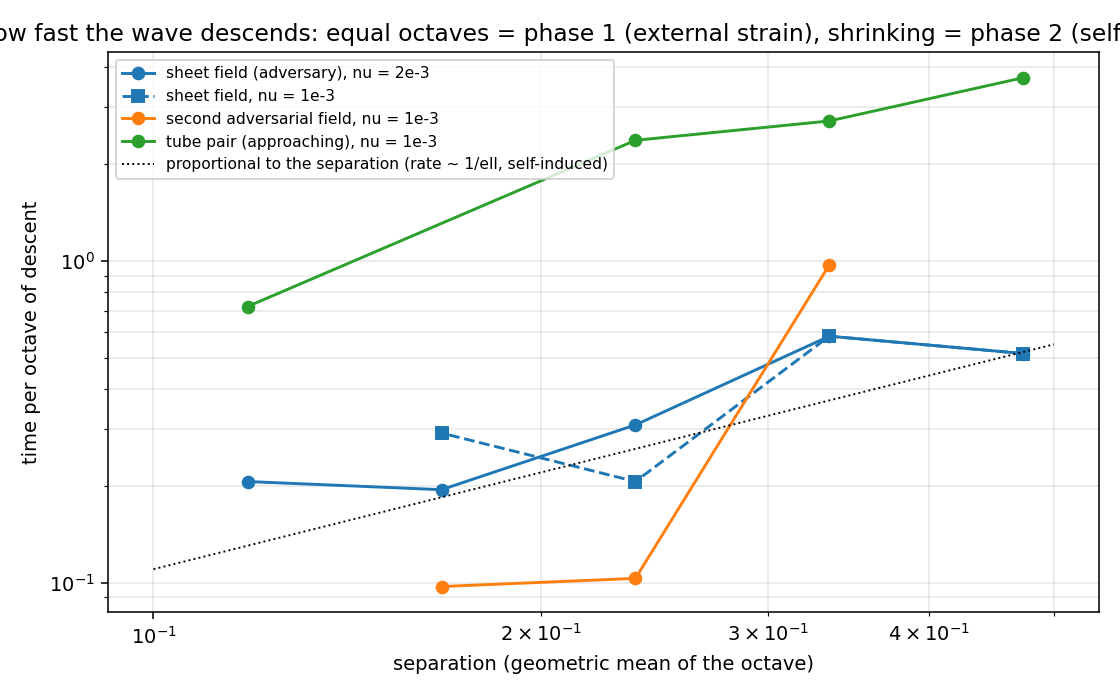
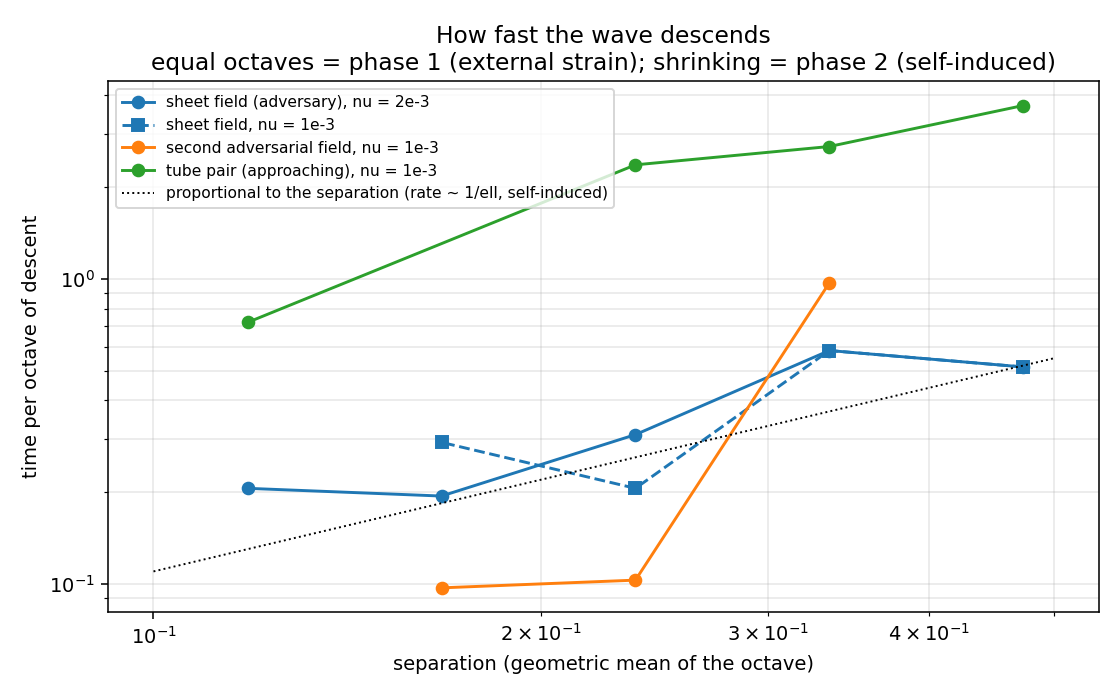
plot_seam: fix titles

diff --git a/plot_seam.py b/plot_seam.py
@@ -52,8 +52,7 @@ P = np.array(pool); a, b = np.polyfit(P[:, 0], P[:, 1], 1); tt = np.linspace(0.6
 ax.plot(tt, a * tt + b, "k-", lw=1, label="gap arm: %.2f (%.2f - t)" % (-a, -b / a))
 ax.axhline(0.053, color="C3", ls=":", lw=1, label="sqrt(nu/s) at the merge, nu = 2e-3")
 ax.set_xlabel("t"); ax.set_ylabel("separation / thickness"); ax.set_ylim(0, 0.62); ax.set_xlim(0.5, 1.9)
-ax.set_title("The V: the gap between the sheets (inviscid, linear)
-meets their thickness (viscous, exponential)")
+ax.set_title("The V: the gap between the sheets (inviscid, linear)\nmeets their thickness (viscous, exponential)")
 ax.legend(fontsize=8); ax.grid(alpha=0.3)
 fig.tight_layout(); fig.savefig("figures/seam_V.png", dpi=140); plt.close(fig)
 
@@ -73,8 +72,7 @@ for name, (f, c) in series.items():
     ax.plot(xs, ys, "o-" if "2e-3" in name or "pair" in name or "second" in name else "s--", color=c, label=name)
 ax.set_xscale("log"); ax.set_yscale("log"); ax.set_xlabel("separation (geometric mean of the octave)"); ax.set_ylabel("time per octave of descent")
 xx = np.array([0.1, 0.5]); ax.plot(xx, 1.1 * xx, "k:", lw=1, label="proportional to the separation (rate ~ 1/ell, self-induced)")
-ax.set_title("How fast the wave descends
-equal octaves = phase 1 (external strain); shrinking = phase 2 (self-induced)")
+ax.set_title("How fast the wave descends" + chr(10) + "equal octaves = phase 1 (external strain); shrinking = phase 2 (self-induced)")
 ax.legend(fontsize=8); ax.grid(alpha=0.3, which="both")
 fig.tight_layout(); fig.savefig("figures/octaves.png", dpi=140); plt.close(fig)
 print("wrote figures/twist_wave.png, figures/seam_V.png, figures/octaves.png")
